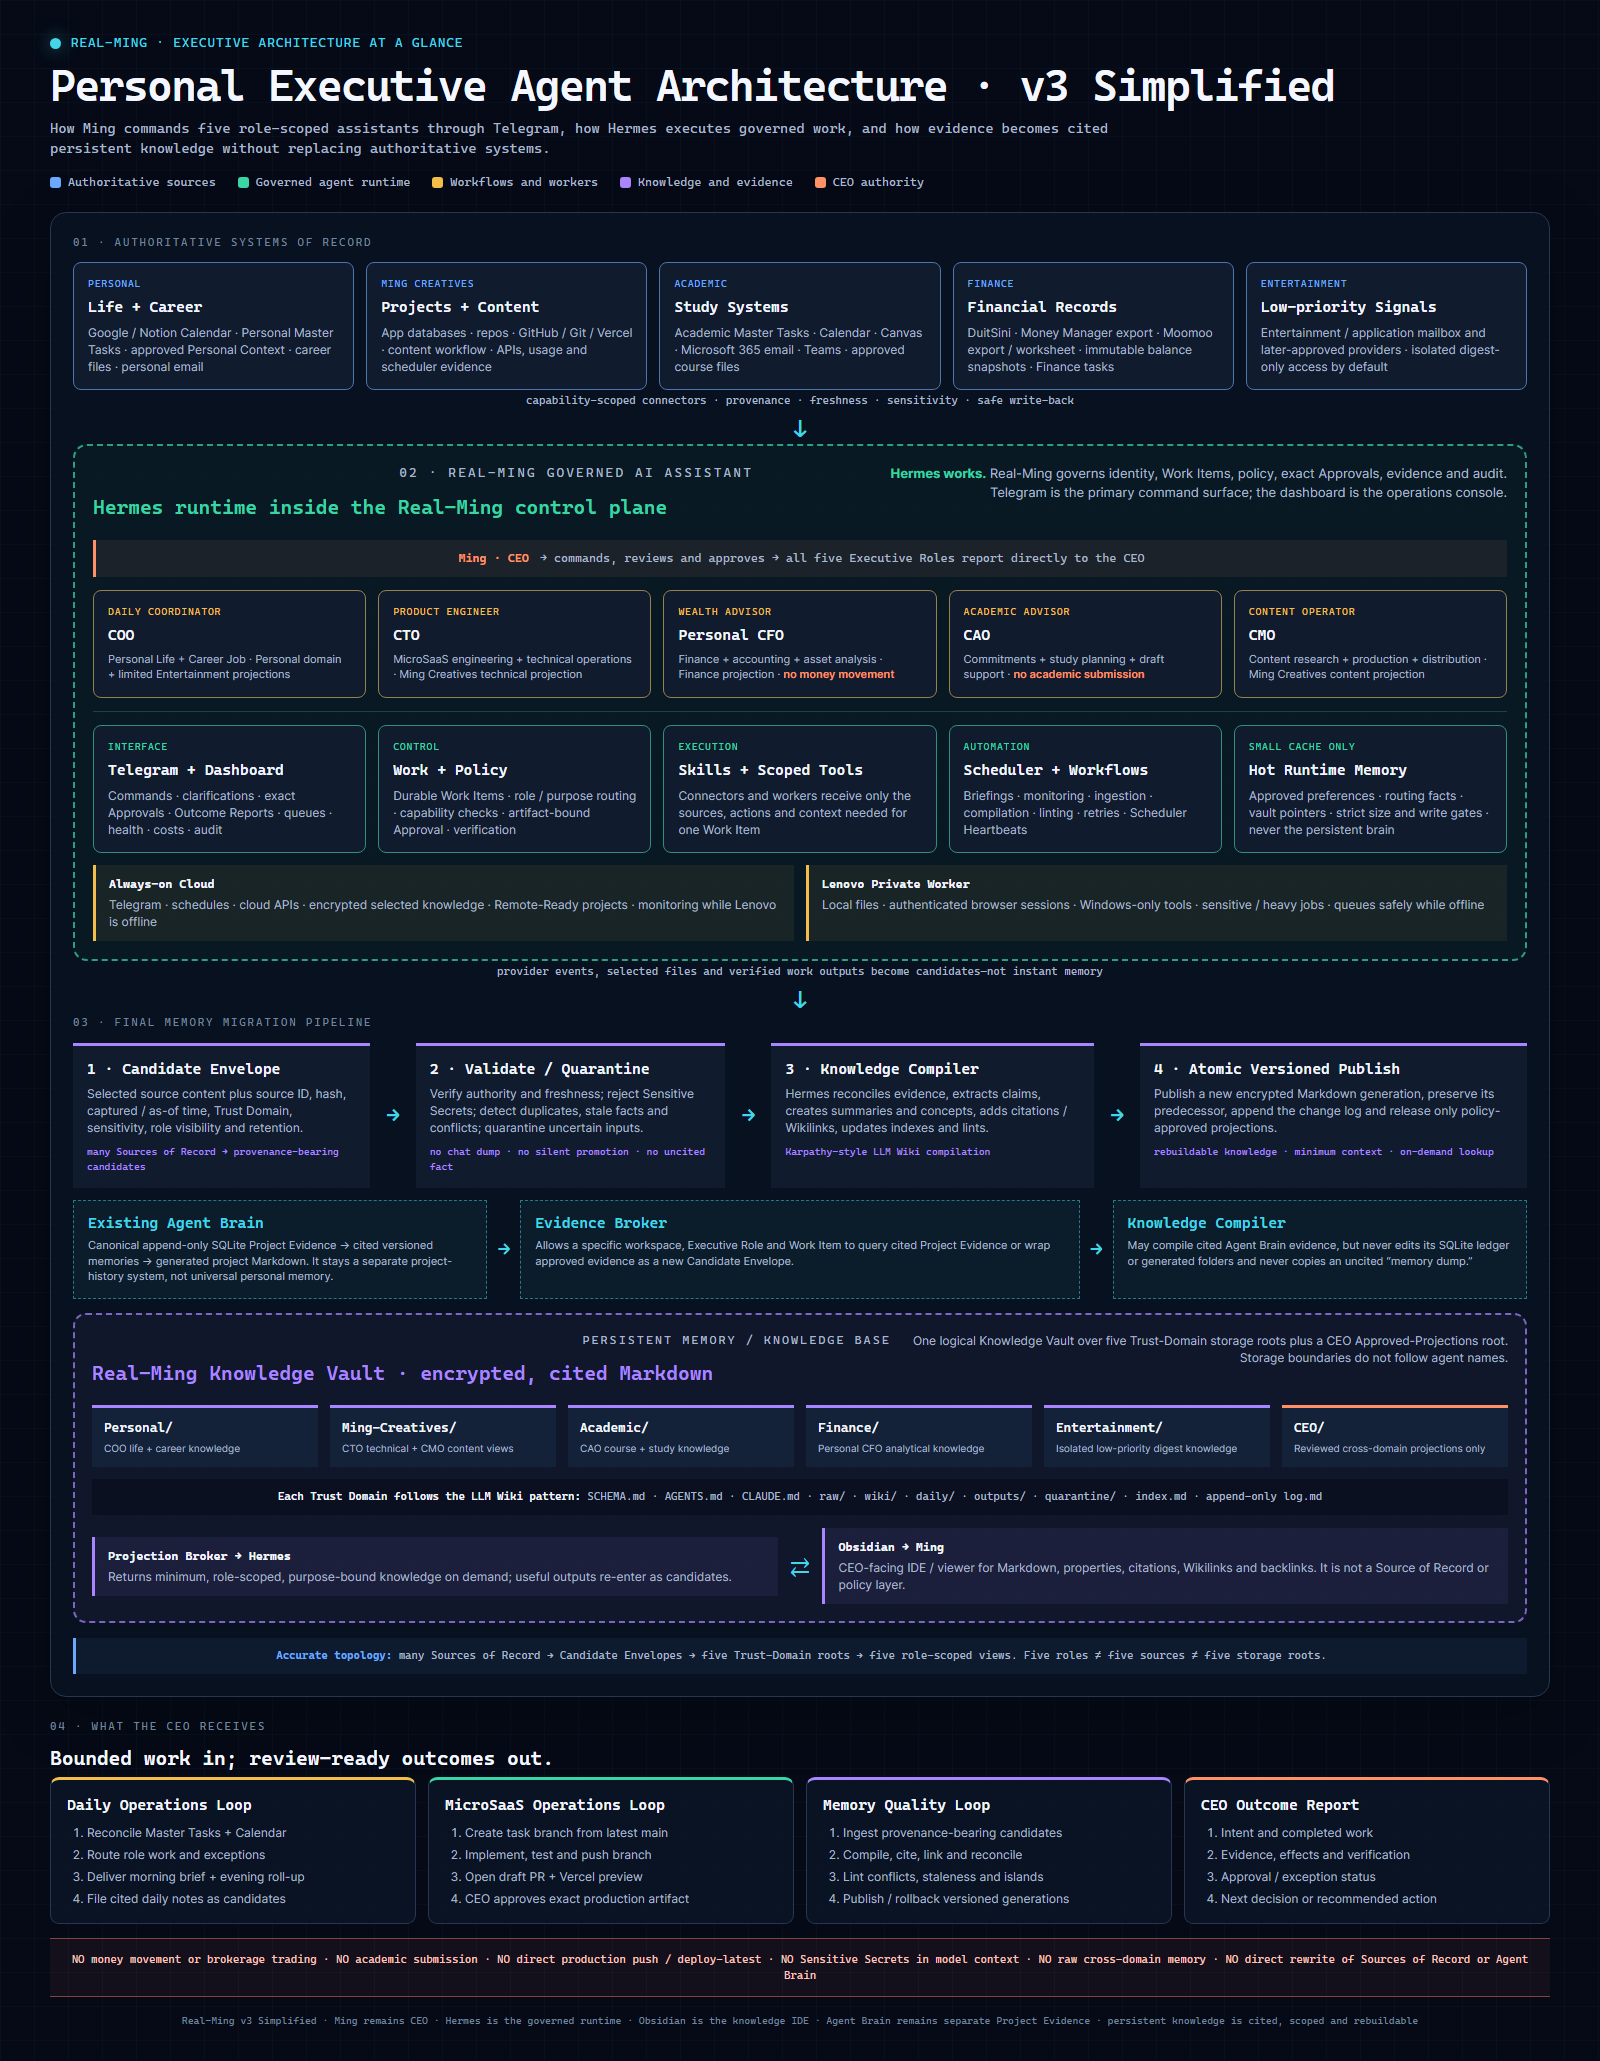
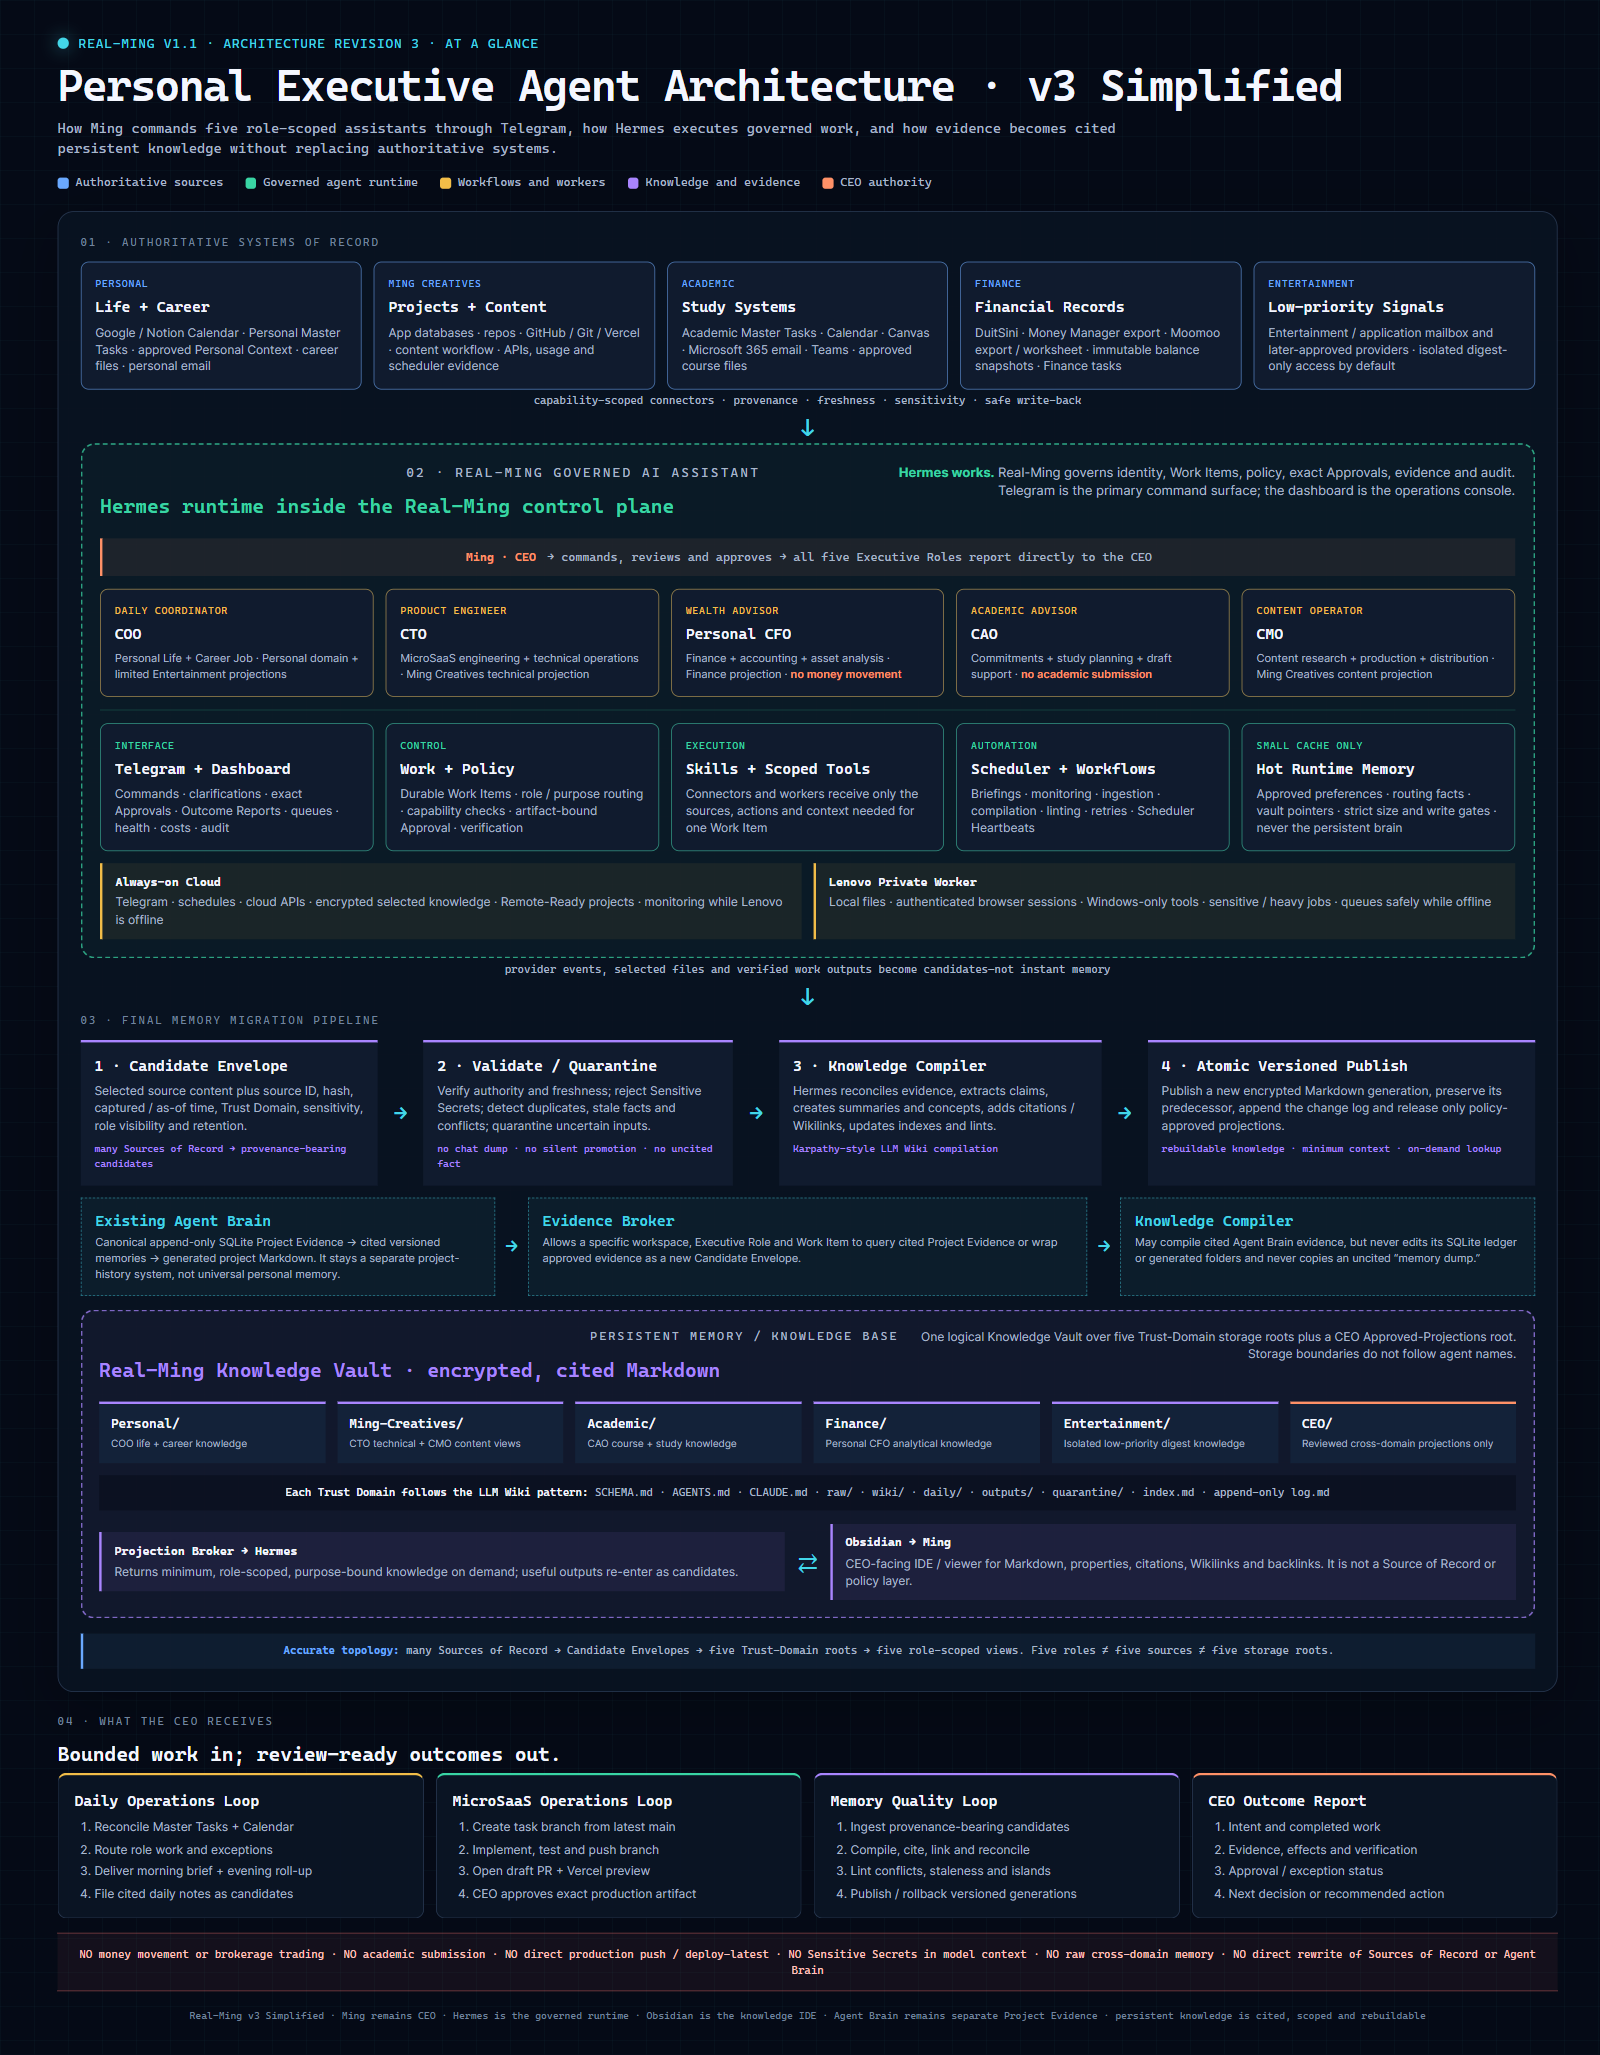
docs: synchronize the Real-Ming v1.1 Architecture Revision 3 baseline
Give the specification, both current diagrams, and the implementation
graph one shared identity so no artifact can drift silently.

- Add docs/BASELINE.md mapping the product baseline, both Revision 3
  diagrams and renders, the ADR set, and the Phase 3 ticket graph, and
  record which artifacts each superseded item replaces.
- Stamp "Real-Ming v1.1 - Architecture Revision 3" on both diagrams as a
  machine-readable meta tag and a visible eyebrow line, and retitle them
  by revision rather than by draft number.
- Re-render both diagram PNGs from the updated markup at the established
  1600px width and verify the rendered headers.
- Complete the approved documentation moves: replace the v1
  specification with v1.1 and archive the v1 and v2 diagrams under
  docs/architecture/old_archieved/.
- Enforce the baseline with a test so label drift, a missing render, a
  resurrected superseded diagram, or a changed architecture decision
  fails npm run check.

diff --git a/test/docs/baseline.test.ts b/test/docs/baseline.test.ts
@@ -1,0 +1,89 @@
+import { existsSync, readFileSync, statSync } from "node:fs";
+import { fileURLToPath } from "node:url";
+
+import { describe, expect, it } from "vitest";
+
+const baselineLabel = "Real-Ming v1.1 · Architecture Revision 3";
+
+const repositoryRoot = new URL("../../", import.meta.url);
+
+function repositoryPath(relative: string): string {
+  return fileURLToPath(new URL(relative, repositoryRoot));
+}
+
+function readRepositoryFile(relative: string): string {
+  return readFileSync(repositoryPath(relative), "utf8");
+}
+
+const diagrams = [
+  "docs/architecture/real-ming-personal-agent-diagram-v3.html",
+  "docs/architecture/real-ming-personal-agent-diagram-v3-simplified.html",
+] as const;
+
+describe("Real-Ming baseline synchronization", () => {
+  it("publishes one baseline map naming every current artifact", () => {
+    const baseline = readRepositoryFile("docs/BASELINE.md");
+
+    expect(baseline).toContain(baselineLabel);
+    expect(baseline).toContain("docs/specs/real-ming-v1.1.md");
+    for (const diagram of diagrams) {
+      expect(baseline).toContain(diagram.replace("docs/", ""));
+    }
+  });
+
+  it("keeps the specification on the v1.1 product baseline", () => {
+    const specification = readRepositoryFile("docs/specs/real-ming-v1.1.md");
+
+    expect(specification).toContain(
+      "# Real-Ming v1.1 Personal Executive Operations Specification",
+    );
+    expect(specification).toContain("Version 1.1");
+    expect(existsSync(repositoryPath("docs/specs/real-ming-v1.md"))).toBe(false);
+  });
+
+  it.each(diagrams)("stamps the shared baseline label on %s", (diagram) => {
+    const markup = readRepositoryFile(diagram);
+
+    expect(markup).toContain(
+      '<meta name="real-ming-baseline" content="Real-Ming v1.1 · Architecture Revision 3">',
+    );
+    expect(markup).toContain("Architecture Revision 3");
+  });
+
+  it.each(diagrams)("keeps a non-empty render beside %s", (diagram) => {
+    const render = repositoryPath(diagram.replace(/\.html$/, ".png"));
+
+    expect(existsSync(render)).toBe(true);
+    expect(statSync(render).size).toBeGreaterThan(0);
+  });
+
+  it("keeps superseded diagram revisions out of the current architecture folder", () => {
+    for (const superseded of [
+      "docs/architecture/real-ming-personal-agent-diagram.html",
+      "docs/architecture/real-ming-personal-agent-diagram.png",
+      "docs/architecture/real-ming-personal-agent-diagram-v2.html",
+      "docs/architecture/real-ming-personal-agent-diagram-v2.png",
+    ]) {
+      expect(existsSync(repositoryPath(superseded))).toBe(false);
+      expect(
+        existsSync(
+          repositoryPath(
+            superseded.replace(
+              "docs/architecture/",
+              "docs/architecture/old_archieved/",
+            ),
+          ),
+        ),
+      ).toBe(true);
+    }
+  });
+
+  it("keeps the implementation graph on the v1.1 architecture decision", () => {
+    const graph = JSON.parse(
+      readRepositoryFile("real-ming-phase3-tickets.json"),
+    ) as { readonly architectureDecision: string; readonly ticketCount: number };
+
+    expect(graph.architectureDecision).toContain("Real-Ming v1.1");
+    expect(graph.ticketCount).toBe(44);
+  });
+});

diff --git a/docs/architecture/real-ming-personal-agent-diagram-v3.html b/docs/architecture/real-ming-personal-agent-diagram-v3.html
@@ -4,7 +4,8 @@
   <meta charset="utf-8">
   <meta name="viewport" content="width=device-width, initial-scale=1">
   <meta name="color-scheme" content="dark">
-  <title>Real-Ming Personal Agent Architecture v3</title>
+  <meta name="real-ming-baseline" content="Real-Ming v1.1 · Architecture Revision 3">
+  <title>Real-Ming Architecture Revision 3</title>
   <style>
     :root {
       --bg: #080d18;
@@ -519,7 +520,7 @@
 <body>
   <main role="img" aria-label="Complete Real-Ming personal executive agent architecture version 3, including governance, Trust Domains, persistent compiled knowledge, Hermes, Obsidian, Agent Brain, hybrid workers and verified outcomes.">
     <header>
-      <p class="eyebrow"><span class="dot" aria-hidden="true"></span>Architecture decision baseline · 2026-08-27</p>
+      <p class="eyebrow"><span class="dot" aria-hidden="true"></span>Real-Ming v1.1 · Architecture Revision 3 · 2026-08-27</p>
       <h1>Real-Ming Personal Executive Agent Architecture · v3</h1>
       <p class="subtitle">Ming remains CEO. Hermes supplies conversation, tools, schedules and the Knowledge Compiler. Real-Ming governs identity, work, authority, information boundaries and audit. Persistent knowledge is compiled into Trust-Domain Markdown; Sources of Record and Agent Brain remain authoritative in their own scopes.</p>
       <div class="legend" aria-label="Diagram legend">

diff --git a/docs/architecture/real-ming-personal-agent-diagram-v3-simplified.html b/docs/architecture/real-ming-personal-agent-diagram-v3-simplified.html
@@ -4,7 +4,8 @@
   <meta charset="utf-8">
   <meta name="viewport" content="width=device-width, initial-scale=1">
   <meta name="color-scheme" content="dark">
-  <title>Real-Ming Personal Agent Architecture v3 — Simplified</title>
+  <meta name="real-ming-baseline" content="Real-Ming v1.1 · Architecture Revision 3">
+  <title>Real-Ming Architecture Revision 3 — Simplified</title>
   <style>
     :root {
       --bg: #050a16;
@@ -582,7 +583,7 @@
 <body>
   <main role="img" aria-label="Simplified Real-Ming personal executive agent architecture version 3, showing authoritative sources, five executive role views, governed Hermes runtime, memory compilation, Trust-Domain vault, Agent Brain evidence, Obsidian, hybrid workers and CEO guardrails.">
     <header>
-      <p class="eyebrow"><span class="pulse" aria-hidden="true"></span>Real-Ming · executive architecture at a glance</p>
+      <p class="eyebrow"><span class="pulse" aria-hidden="true"></span>Real-Ming v1.1 · Architecture Revision 3 · at a glance</p>
       <h1>Personal Executive Agent Architecture · v3 Simplified</h1>
       <p class="subtitle">How Ming commands five role-scoped assistants through Telegram, how Hermes executes governed work, and how evidence becomes cited persistent knowledge without replacing authoritative systems.</p>
       <div class="legend" aria-label="Diagram legend">

diff --git a/docs/BASELINE.md b/docs/BASELINE.md
@@ -1,0 +1,46 @@
+# Real-Ming baseline
+
+**Real-Ming v1.1 · Architecture Revision 3**
+
+This is the single shared label for the current authoritative design baseline. Every artifact below states this label, and `test/docs/baseline.test.ts` fails the build if any of them drifts.
+
+## Artifacts
+
+| Role | Artifact | Identity |
+| --- | --- | --- |
+| Product and specification baseline | [docs/specs/real-ming-v1.1.md](specs/real-ming-v1.1.md) | Real-Ming v1.1 Personal Executive Operations Specification |
+| Full architecture diagram | [docs/architecture/real-ming-personal-agent-diagram-v3.html](architecture/real-ming-personal-agent-diagram-v3.html) | Real-Ming Architecture Revision 3 |
+| Full architecture render | [docs/architecture/real-ming-personal-agent-diagram-v3.png](architecture/real-ming-personal-agent-diagram-v3.png) | Rendered from the full diagram HTML |
+| Simplified architecture diagram | [docs/architecture/real-ming-personal-agent-diagram-v3-simplified.html](architecture/real-ming-personal-agent-diagram-v3-simplified.html) | Real-Ming Architecture Revision 3 — Simplified |
+| Simplified architecture render | [docs/architecture/real-ming-personal-agent-diagram-v3-simplified.png](architecture/real-ming-personal-agent-diagram-v3-simplified.png) | Rendered from the simplified diagram HTML |
+| Decision record set | [docs/adr/](adr/) | ADR 0001 through ADR 0018 |
+| Implementation graph | [real-ming-phase3-tickets.json](../real-ming-phase3-tickets.json) | Phase 3 tracer-bullet decomposition, 44 tickets |
+
+## Superseded artifacts
+
+| Superseded | Replaced by | Location |
+| --- | --- | --- |
+| Real-Ming v1 specification | Real-Ming v1.1 specification | Removed; history preserved in Git |
+| Architecture diagram v1 | Architecture Revision 3 | [docs/architecture/old_archieved/](architecture/old_archieved/) |
+| Architecture diagram v2 | Architecture Revision 3 | [docs/architecture/old_archieved/](architecture/old_archieved/) |
+
+`docs/architecture/real-ming-v1.html` remains the narrative v1.1 final-architecture page and is not a diagram revision.
+
+## Architecture agreement
+
+Revision 3 exists because v1.1 added the Trust-Domain Knowledge Vault and LLM Wiki memory architecture. Both diagrams and the specification agree on these decisions:
+
+- Ming is the sole CEO; every consequential action stops at an exact, artifact-bound Approval, and no Executive Role performs Money Movement or brokerage trading.
+- Five bounded Executive Roles — COO, CTO, Personal CFO, CAO, CMO — each report directly to the CEO, and the COO coordinates without inheriting peer authority.
+- Hermes remains the conversational, tool, scheduling, and Knowledge Compiler runtime; Real-Ming adds governance, durable work, Approval, projection, audit, and CEO surfaces.
+- Persistent knowledge is compiled into cited, versioned Markdown across isolated Personal, Ming Creatives, Academic, Entertainment, and Finance roots plus a CEO Approved-Projection root.
+- Obsidian is the CEO-facing knowledge IDE and is never the access-control boundary; Hermes native memory stays bounded Hot Runtime Memory.
+- Agent Brain stays the source of cited Project Evidence behind the Evidence Broker, and domain systems stay Sources of Record.
+- Execution is hybrid: an always-on control plane plus the Lenovo private worker for Local-Only Work.
+
+## Changing the baseline
+
+1. Update the specification and both diagram HTML files together.
+2. Re-render both PNGs from their HTML and confirm the render visually.
+3. Update this file, including the label if the revision number changes.
+4. Run `npm run check`; the baseline test enforces label agreement and render presence.
